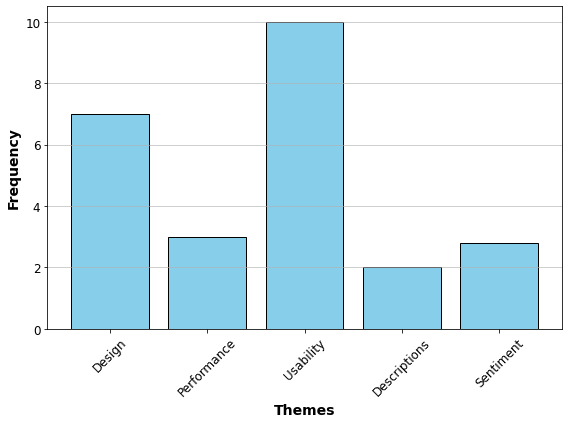
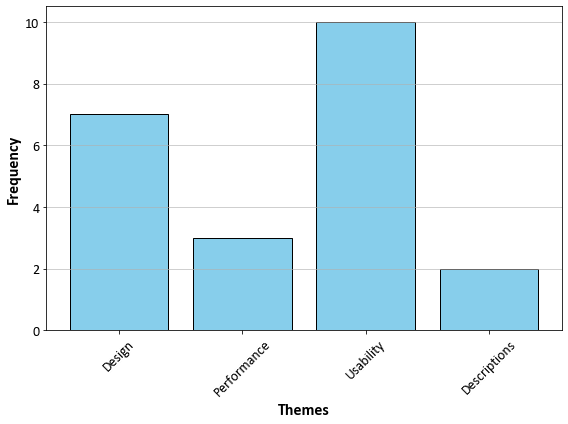
Add files via upload

diff --git a/website_thematicanalysis.py b/website_thematicanalysis.py
@@ -51,7 +51,8 @@ df["Feedback Response Processed"] = df["Feedback Response"].apply(preprocess_tex
 
 ###############################################################################################################
 # Create initial codes using regexps
-# Codes selected based on the research question: generate list of codes that capture concepts and themes. Codes should be grounded in the data and reflect experiences, perspectives, language. 
+# Themes and codes human led, selected based on the research question: generate list of codes that capture concepts and themes. 
+# Codes should be grounded in the data and reflect experiences, perspectives, language. 
 # Process should be systematic and transparent: ensure codes are reliable, valid, and consistent
 codes = {"Design": ["design", "layout", "color scheme"],
          "Performance": ["slow", "crash", "load"],
@@ -79,8 +80,10 @@ for code, keywords in codes.items():
     
 ###############################################################################################################
 # Plotting results
-fs=14
-xtfs=12
+fs=16
+xtfs=14
+plt.rcParams['font.family'] = 'Calibri'
+
 # Bar plot of code frequency
 plt.figure(figsize=(8, 6))
 code_counts = df.iloc[:, 3:].sum()
